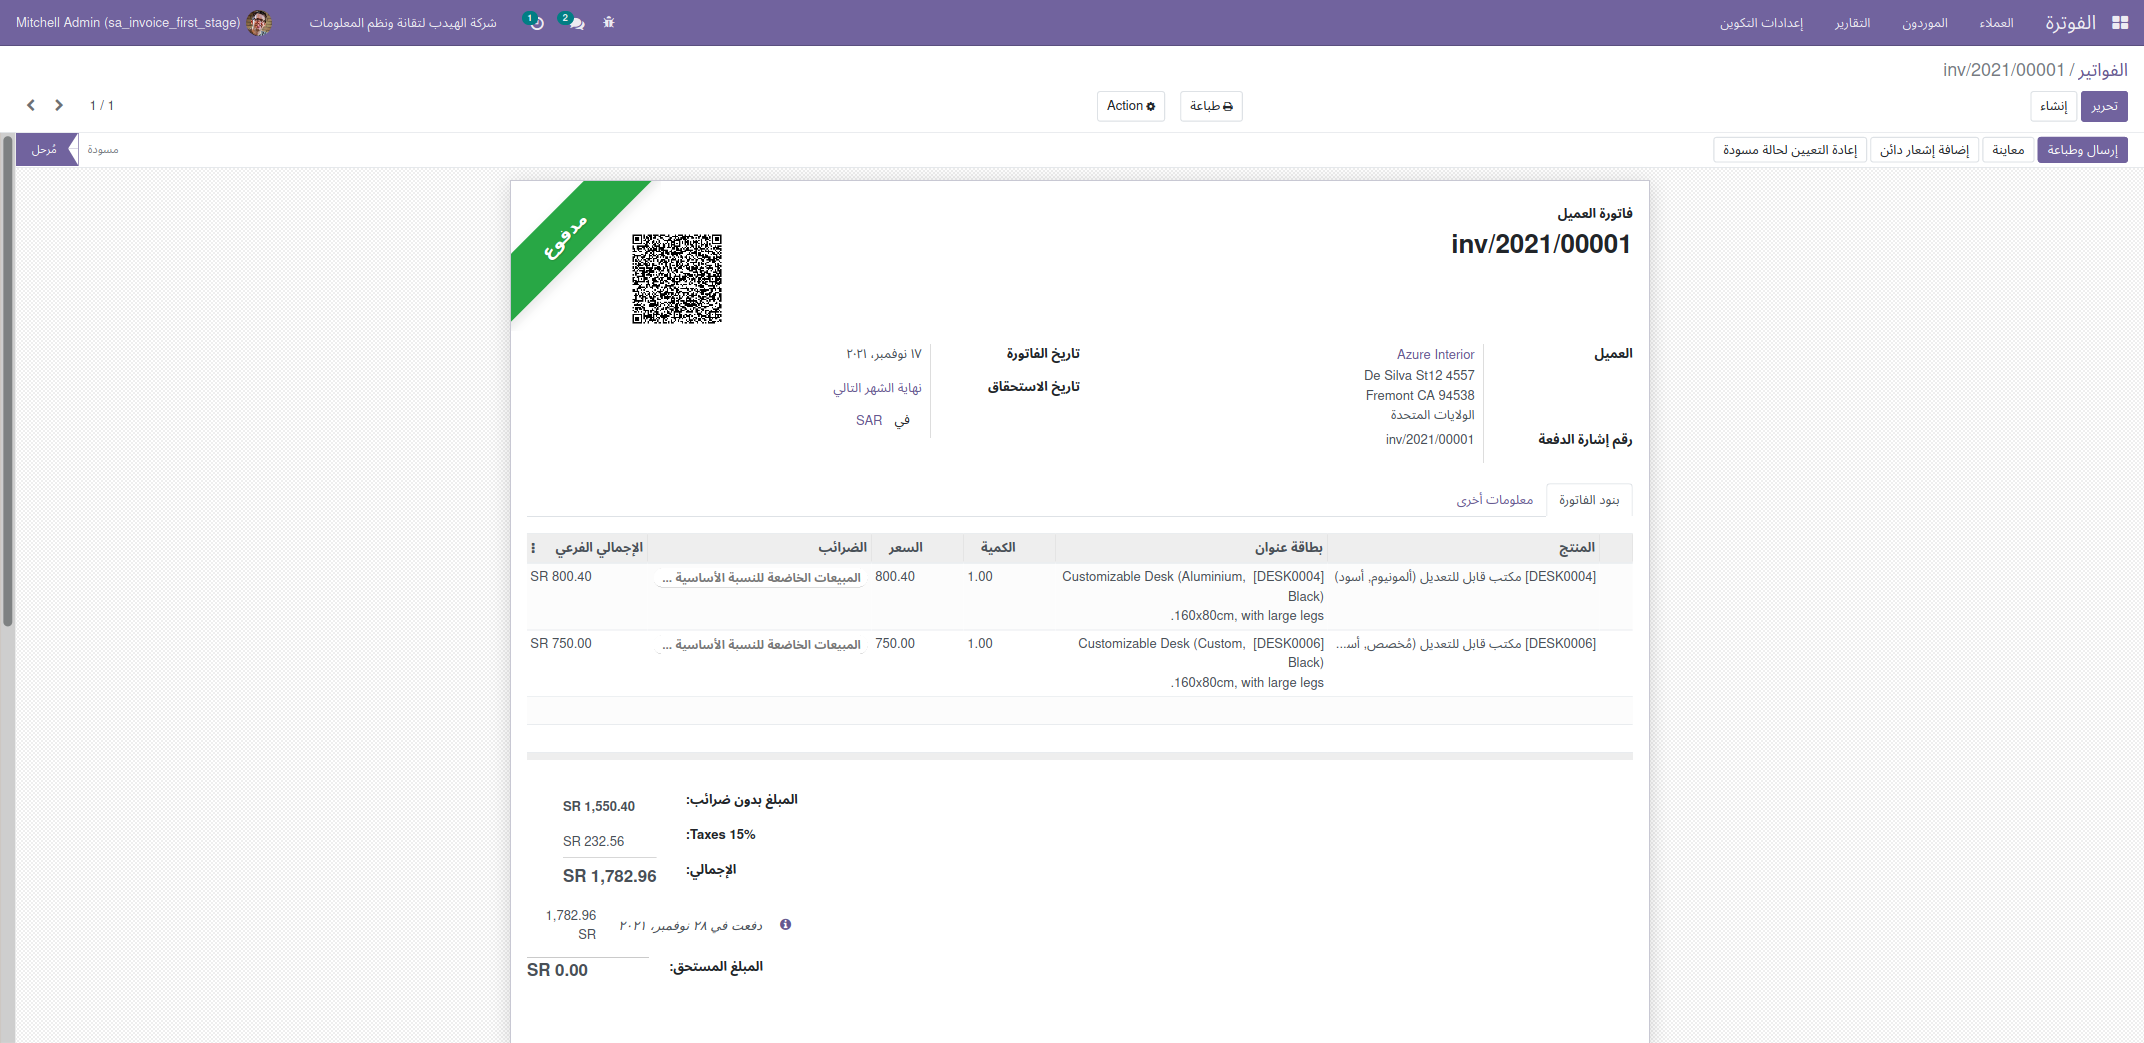
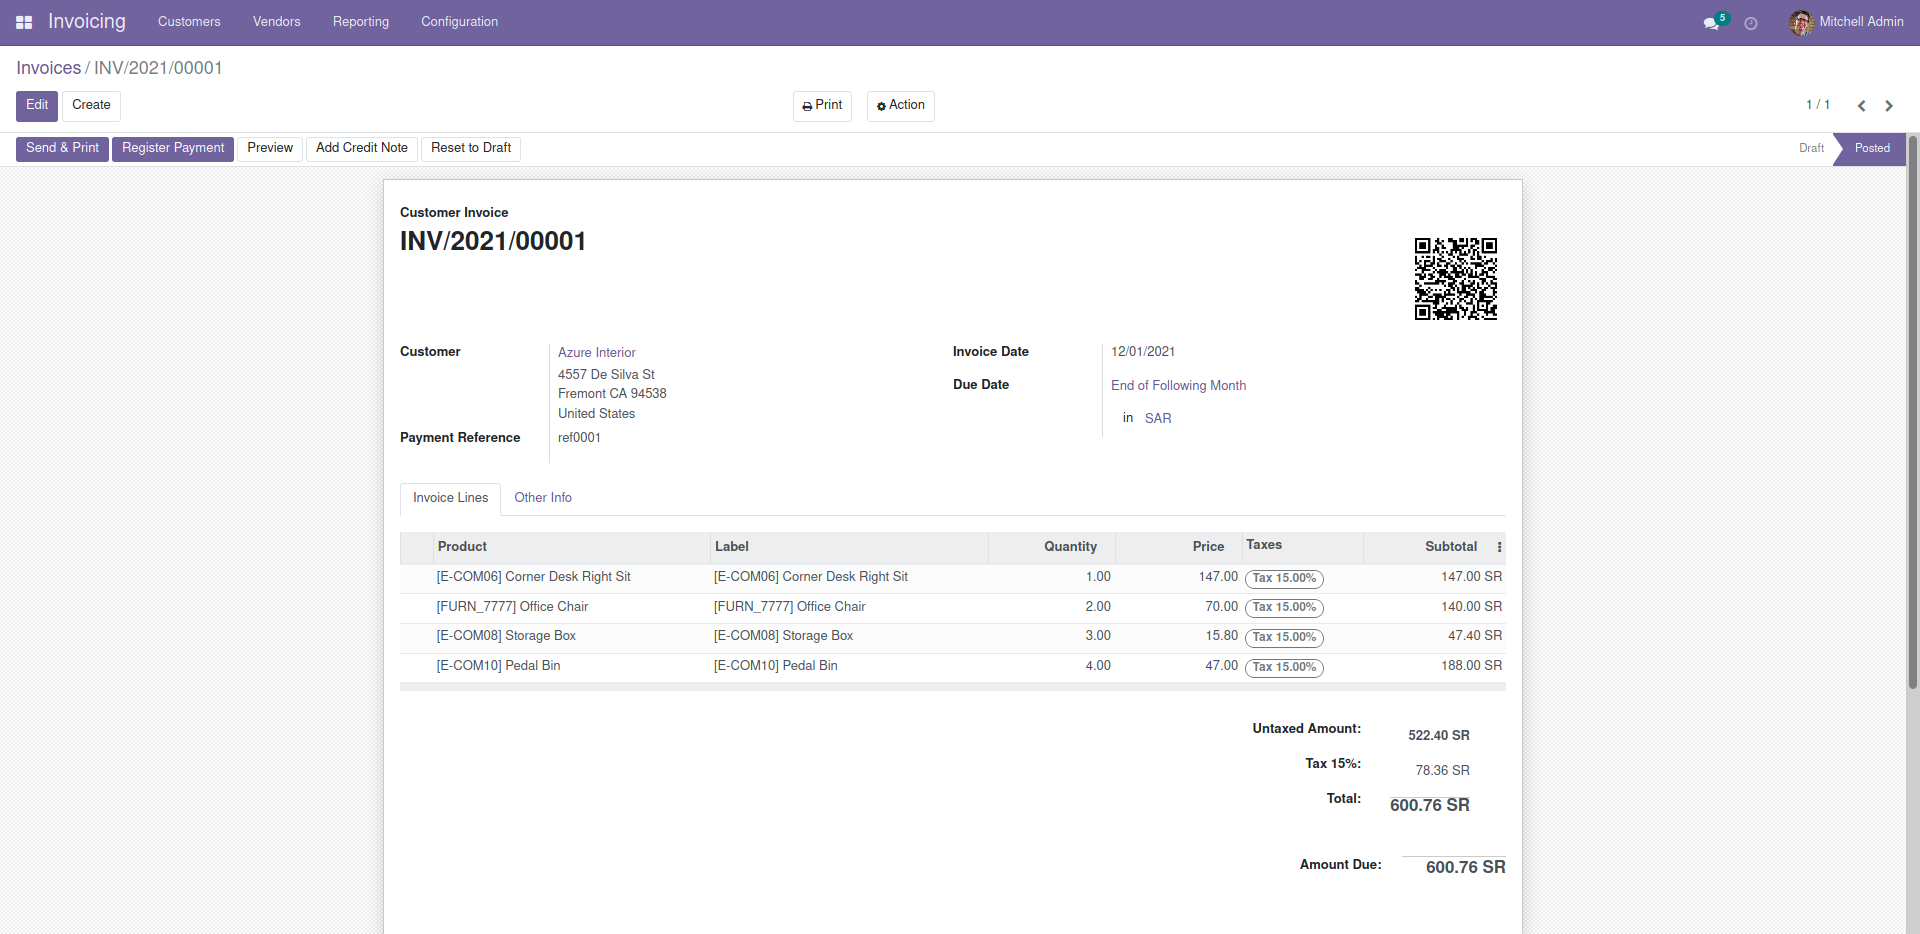
Adding invoice headers and screenshots

diff --git a/sa_invoice_first_stage/static/description/index.html b/sa_invoice_first_stage/static/description/index.html
@@ -21,7 +21,7 @@
     <br/>
     <br/>
     <h3 class="text-center">Tax Invoice</h3>
-    <div class="col-md-5 col-sm-12 w-auto text-center"><img style="max-width: 1050px;padding: 15%;" src="images/Screenshot_invoice_portal.png" alt="invoice portal"></div>
+    <div class="col-md-5 col-sm-12 w-auto text-center"><img style="max-width: 1050px;padding: 15%;" src="images/Screenshot_invoice.png" alt="invoice"></div>
     <br/>
     <br/>
     <h3 class="text-center">Simple Invoice</h3>
